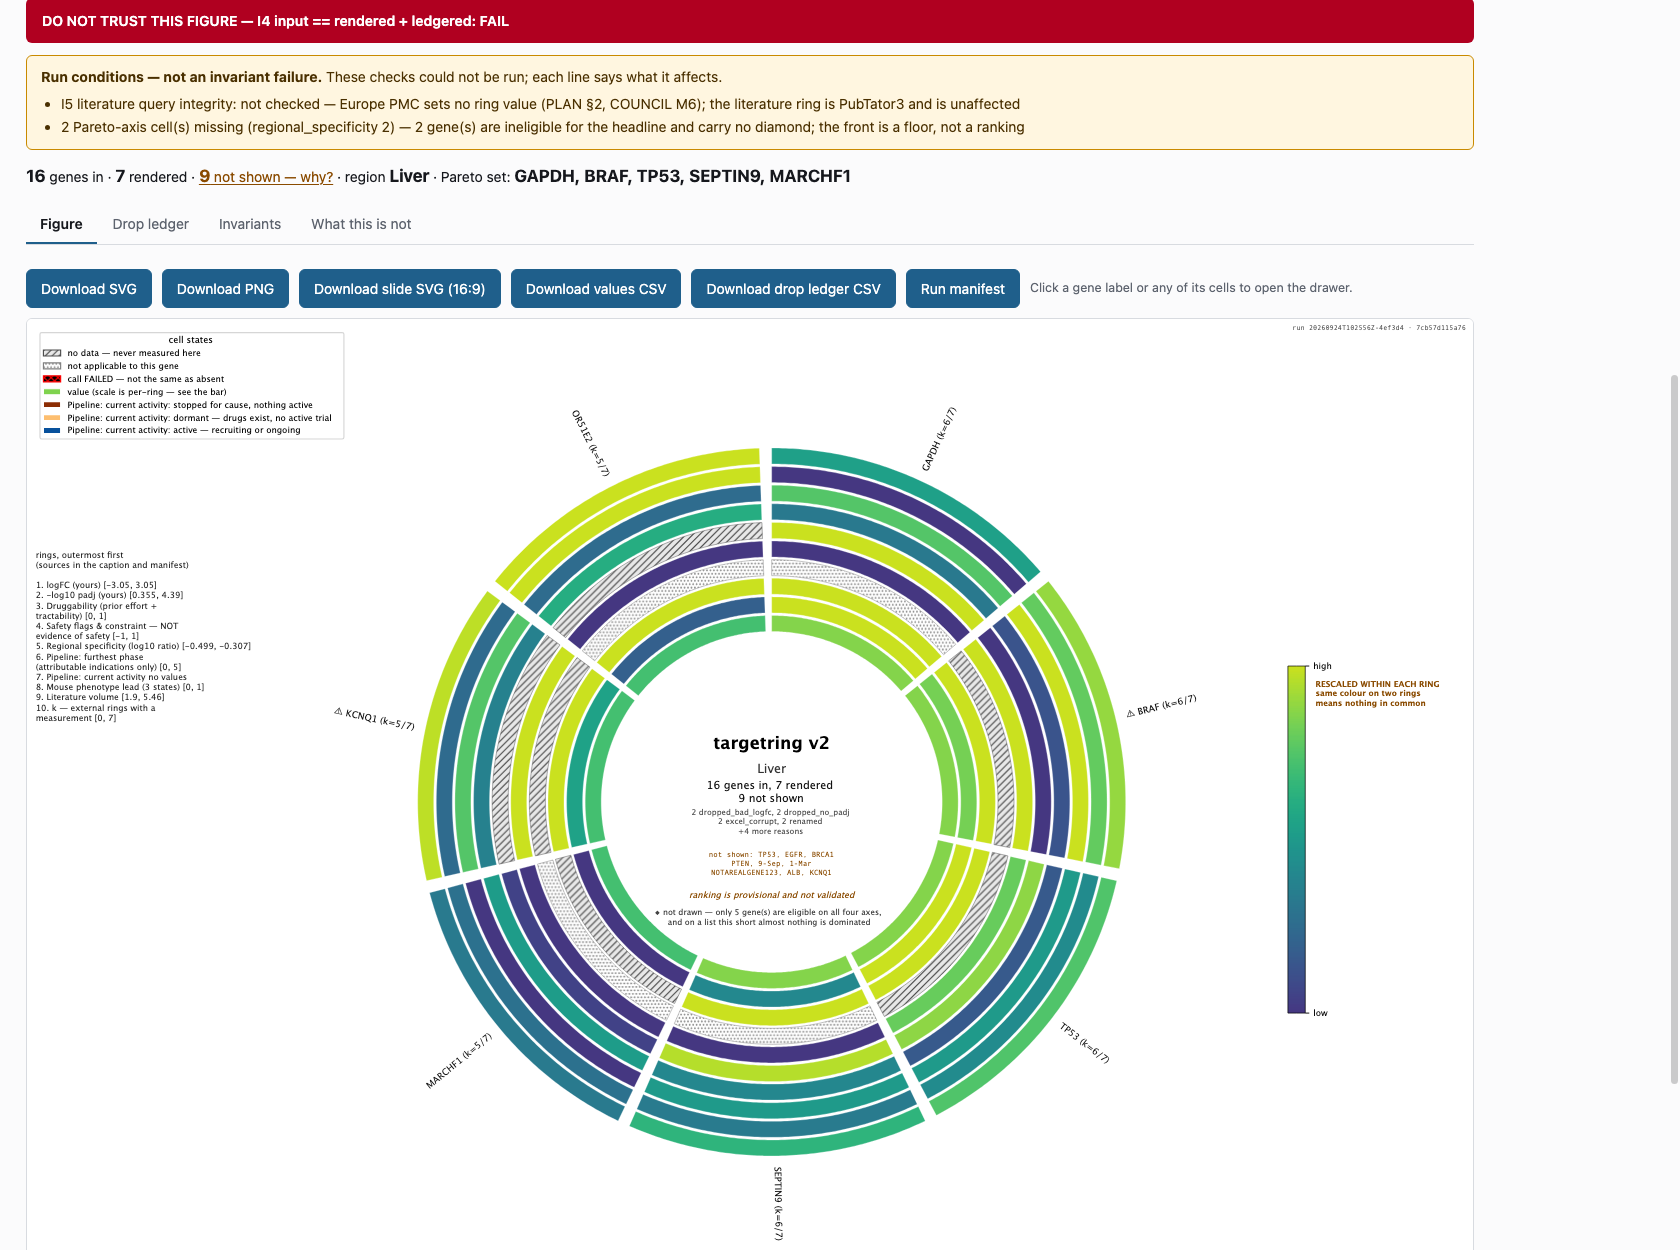
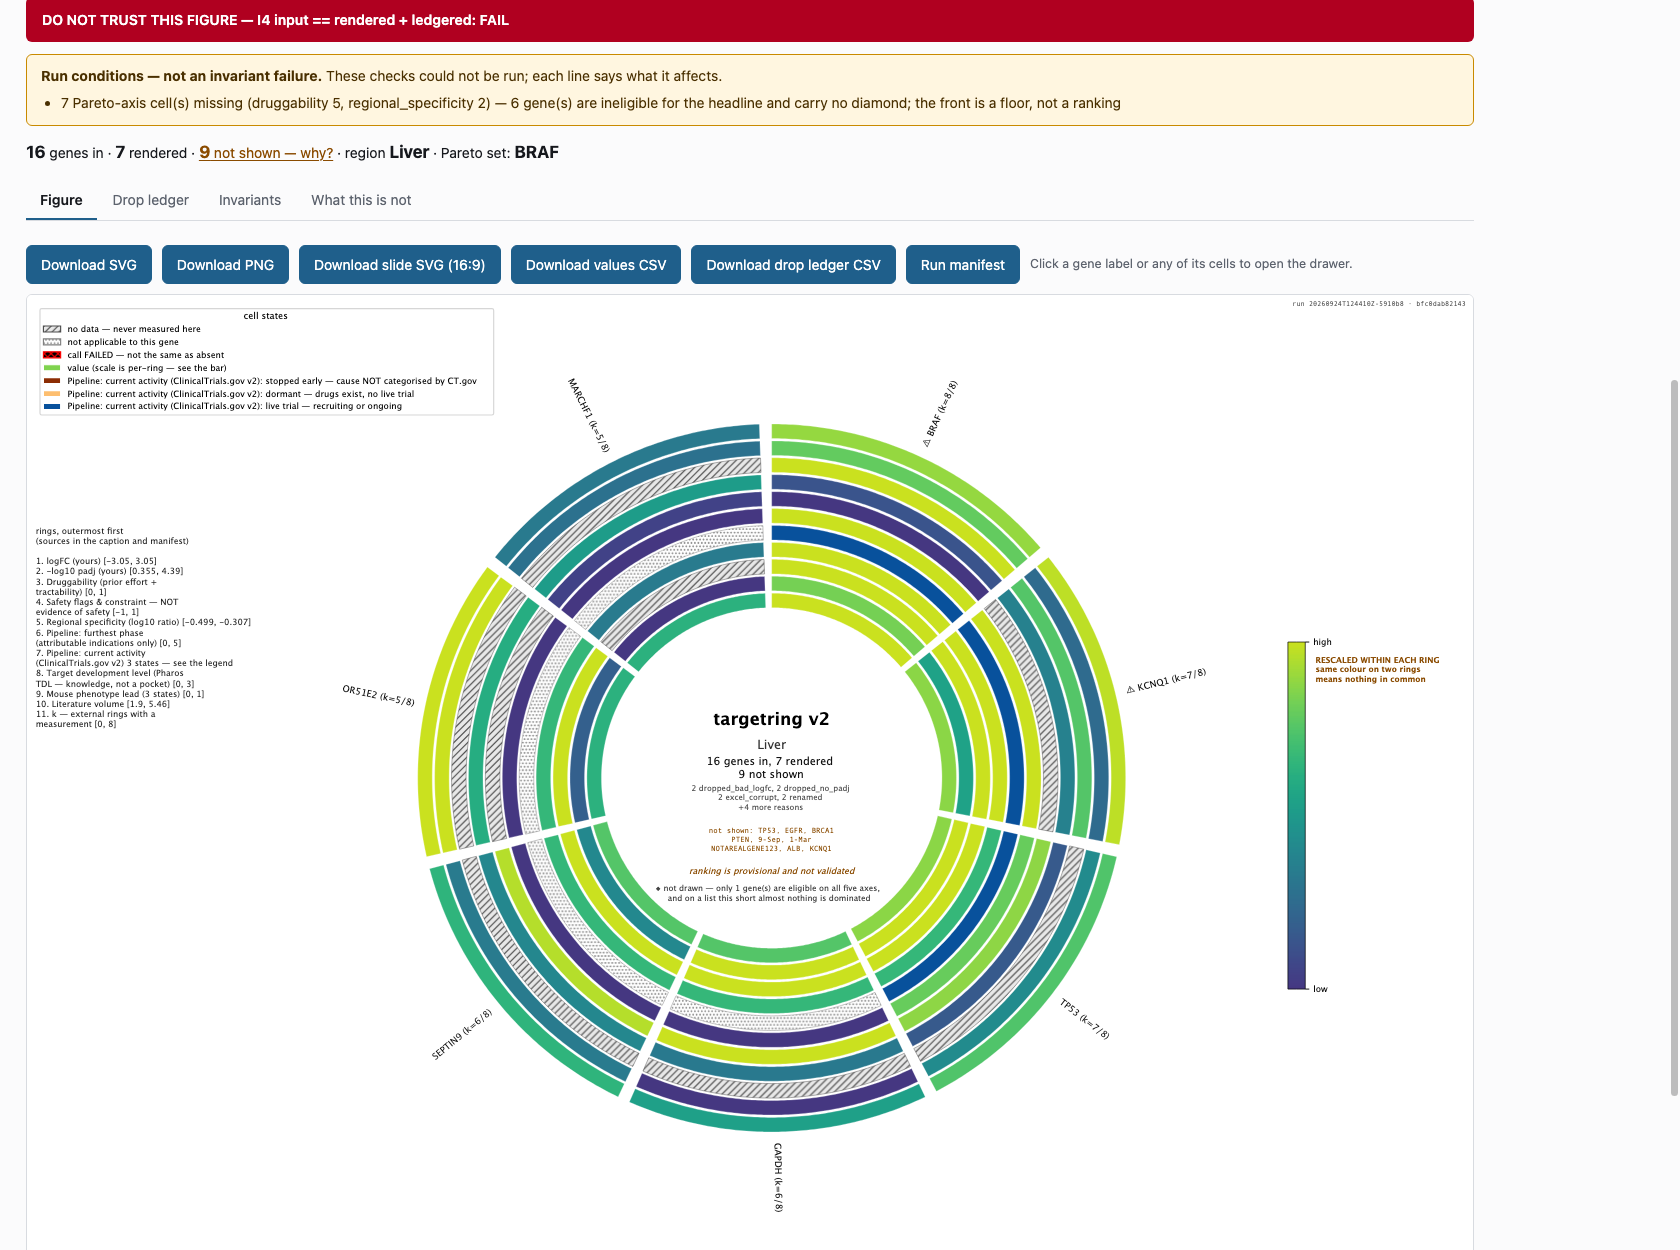
Drawer UI for the CT.gov panel and TDL, and the key stops saying "no values"
The drawer now renders what item 2 fetched: per drug, the exact trial counts,
the live count, the stopped-early count, the named lead sponsors of the live
trials, and a linked live NCT example -- plus the free-text `whyStopped`
reasons, shown verbatim and labelled "not categorised". Puck's second hard
condition is a thing you can see, not a key in the JSON. The rank block gains
the Pharos TDL level, and "n of 4 axes" is driven by the axis count.

Two screenshots added: `7-drawer-ctgov-sponsors.png` and
`7b-ring-key-sources.png`. All 15 retaken on this code.

Caught on the retake: the ring key printed "Pipeline: current activity
(ClinicalTrials.gov v2) no values" beside a ring full of drawn cells, because
a categorical ring has no Normalize. It names its three states now. A figure
must not make a false claim about its own data, and that included this one.

354 passed, 0 skipped.

diff --git a/targetring/static/app.js b/targetring/static/app.js
@@ -263,6 +263,8 @@ function drawerHtml(d) {
   const drugs = d.drugs || [];
   const lit = d.literature || {};
   const ch = d.chembl || {};
+  // v2.2 item 3: ChEMBL and Europe PMC are fetched when this drawer opens, not
+  // on the render path. `null` means not fetched yet, never "nothing there".
 
   let h = `<h3>${esc(d.gene)}</h3>
     <p class="hint">${esc(d.ensembl_id || "")}${d.uniprot
@@ -281,12 +283,15 @@ function drawerHtml(d) {
     <dt>Pareto non-dominated</dt><dd>${d.pareto
       ? "<span class='pill ok'>yes — headline set</span>"
       : d.pareto_eligible === false
-        ? `<span class='pill warn'>not eligible — ${d.pareto_k} of 4 axes</span>`
+        ? `<span class='pill warn'>not eligible — ${d.pareto_k} of ${d.n_pareto_axes ?? "?"} axes</span>`
         : "<span class='pill grey'>no</span>"}</dd>
     <dt>median available rank</dt><dd>${d.median_rank == null ? "—"
       : d.median_rank.toFixed(3)}</dd>
     <dt>weighted score</dt><dd>${d.weighted_score == null ? "—"
       : d.weighted_score.toFixed(3)} <span class="hint">(convenience only)</span></dd>
+    <dt>Pharos TDL</dt><dd>${d.tdl && d.tdl.state === "value"
+      ? `<b>${esc((d.tdl.raw || {}).tdl || "")}</b> <span class="hint">development level, not a pocket</span>`
+      : `<span class='pill grey'>${esc((d.tdl || {}).state || "—")}</span>`}</dd>
     <dt>reweighting-stable</dt><dd>${d.unstable
       ? "<span class='pill warn'>no — top-10 place moves</span>"
       : "<span class='pill ok'>yes</span>"}</dd></dl>`;
@@ -326,6 +331,44 @@ function drawerHtml(d) {
           .map(([k, v]) => `${k} ${v}`).join(", ") || "—")}</td>
         <td>${r.url ? `<a href="${esc(r.url)}" target="_blank" rel="noopener">open</a>` : "—"}</td>
       </tr>`).join("") + `</tbody></table></div>`;
+  }
+
+  // --- v2.2 item 2: ClinicalTrials.gov, sponsor and live status ---
+  // "sponsor plus live status must reach the drawer, since that is what tells
+  // the user a target is crowded."
+  const tr = d.trials || {};
+  const trDrugs = (tr.drugs || []).filter((r) => (r.n_trials || 0) > 0 || r.error);
+  if (tr.source) {
+    h += `<h4>trials — ${esc(tr.source)}</h4>
+      <p class="summary-line">${tr.n_lead_sponsors || 0} distinct lead sponsor(s)
+        across this target's drugs${(tr.lead_sponsors || []).length
+          ? ": " + tr.lead_sponsors.slice(0, 6).map(esc).join(", ") : ""}.</p>
+      <div class="note">${esc(tr.note || "")}</div>`;
+    if (trDrugs.length) {
+      h += `<div class="scroll-x"><table><thead><tr><th>Drug</th><th>Trials</th>
+        <th>Live</th><th>Stopped early</th><th>Lead sponsors (live)</th>
+        <th>Live example</th></tr></thead><tbody>` +
+        trDrugs.map((r) => `<tr>
+          <td><b>${esc(r.drug)}</b><br><span class="hint"><code>${esc(r.query || "")}</code></span></td>
+          <td>${r.error ? "—" : r.n_trials}</td>
+          <td>${r.error ? "—" : r.n_live}</td>
+          <td>${r.error ? "—" : r.n_stopped}</td>
+          <td>${esc((r.sponsors || []).slice(0, 3).join("; ") || "—")}</td>
+          <td>${(r.live || []).length
+            ? `<a href="${esc(r.live[0].url || "#")}" target="_blank" rel="noopener">${
+                esc(r.live[0].nct_id)}</a> ${esc(r.live[0].status)}
+               <span class="hint">${esc((r.live[0].conditions || []).join(", "))}</span>`
+            : r.error ? `<span class="hint">${esc(r.error)}</span>` : "—"}</td>
+        </tr>`).join("") + `</tbody></table></div>`;
+      const stopped = trDrugs.flatMap((r) => (r.stopped || []).map((s) => ({...s, drug: r.drug})))
+        .filter((s) => s.why_stopped).slice(0, 6);
+      if (stopped.length) {
+        h += `<p class="summary-line">Stated reasons for stopping — free text from the
+          sponsor, <b>not categorised</b>, shown verbatim:</p><ul class="reason">` +
+          stopped.map((s) => `<li><code>${esc(s.nct_id)}</code> ${esc(s.drug)}:
+            “${esc(s.why_stopped)}”</li>`).join("") + `</ul>`;
+      }
+    }
   }
 
   // --- literature ---

diff --git a/targetring/figure.py b/targetring/figure.py
@@ -759,13 +759,29 @@ def _draw_legend(fig, rings, norms, cmap, lay) -> list:
     lines = []
     for i, spec in enumerate(rings, start=1):
         n = norms.get(spec.key)
-        rng = f"[{n.vmin:.3g}, {n.vmax:.3g}]" if n else "no values"
+        rng = _range_label(spec, n)
         lines.extend(_key_lines(f"{i}. ", spec.label, rng))
     return blocks + [fig.text(0.006, 0.80,
                               "rings, outermost first\n"
                               "(sources in the caption and manifest)\n\n"
                               + "\n".join(lines),
                               fontsize=7.4, va="top", ha="left", color="#222222")]
+
+
+def _range_label(spec: RingSpec, n) -> str:
+    """What the numbers beside a ring name mean.
+
+    A categorical ring has no `Normalize`, and printing "no values" for it is a
+    false statement about the figure's own data: the activity ring has three
+    stated states and they are named in the legend. Caught on the v2.2 retake,
+    where the CT.gov ring read "Pipeline: current activity
+    (ClinicalTrials.gov v2) no values" beside a ring full of drawn cells.
+    """
+    if n is not None:
+        return f"[{n.vmin:.3g}, {n.vmax:.3g}]"
+    if spec.categorical:
+        return f"{len(spec.categorical)} states — see the legend"
+    return "no values"
 
 
 def _short(label: str, limit: int = 34) -> str:
@@ -900,7 +916,7 @@ def caption(rings, norms, weights, region, provenance, gene_flags=None,
                  "between two rings):")
     for i, spec in enumerate(rings, start=1):
         n = norms.get(spec.key)
-        rng = f"[{n.vmin:.3g}, {n.vmax:.3g}]" if n else "no values"
+        rng = _range_label(spec, n)
         lines.append(f"  {i}. {spec.label} {rng} \u2014 {spec.source}")
     w = ", ".join(f"{k}={v:g}" for k, v in sorted(weights.items()))
     excluded = ", ".join(sorted(EXCLUDED_FROM_SCORE))

diff --git a/tests/test_scales.py b/tests/test_scales.py
@@ -339,3 +339,31 @@ class TestGreyscaleDisjointness:
         """Truncating must not have broken the thing that makes viridis readable."""
         ramp = [relative_luminance(value_cmap()(i / 255)) for i in range(256)]
         assert all(b >= a - 1e-6 for a, b in zip(ramp, ramp[1:]))
+
+
+class TestTheKeyDoesNotMisstateItsOwnRings:
+    """Caught on the v2.2 screenshot retake: the categorical activity ring has
+    no Normalize, so the key printed "Pipeline: current activity
+    (ClinicalTrials.gov v2) no values" beside a ring full of drawn cells. A
+    figure must not make a false claim about its own data."""
+
+    def test_a_categorical_ring_names_its_states_not_no_values(self) -> None:
+        from targetring.figure import _range_label
+        spec = next(r for r in RING_SPECS if r.key == "clinical_activity")
+        label = _range_label(spec, None)
+        assert "no values" not in label
+        assert str(len(spec.categorical)) in label
+
+    def test_a_continuous_ring_with_nothing_drawn_still_says_no_values(self) -> None:
+        from targetring.figure import _range_label
+        spec = next(r for r in RING_SPECS if r.key == "tdl")
+        assert _range_label(spec, None) == "no values"
+
+    def test_the_rendered_key_says_it(self, tmp_path: Path) -> None:
+        spec = {"logfc": {g: value(1.0 * i) for i, g in enumerate("ABC")},
+                "clinical_activity": {"A": value(-1.0), "B": value(0.0), "C": value(1.0)}}
+        render(genes=list("ABC"), cells_by_ring=spec, rankings=rank_genes(spec),
+               region="Liver", out_svg=tmp_path / "k2.svg", input_count=3,
+               rendered_count=3, ledger_counts={})
+        body = (tmp_path / "k2.svg").read_text()
+        assert "3 states" in body

diff --git a/scripts/screenshots.py b/scripts/screenshots.py
@@ -133,6 +133,28 @@ def main() -> int:
         shot(page, "5d-drawer-kcnh2-liability.png")
         page.click("#drawer-close")
 
+        # 3b. v2.2 item 2: the CT.gov panel — sponsor and live status, which is
+        #     what says whether a target is crowded.
+        print("5b/10 BRAF — ClinicalTrials.gov sponsors and live status")
+        page.evaluate("openDrawer('BRAF')")
+        page.wait_for_selector("#drawer:not([hidden])")
+        page.wait_for_timeout(1500)
+        page.evaluate(
+            "[...document.querySelectorAll('#drawer h4')]"
+            ".find(e => e.textContent.startsWith('trials'))"
+            "?.scrollIntoView({block:'start'})"
+        )
+        page.wait_for_timeout(600)
+        shot(page, "7-drawer-ctgov-sponsors.png")
+
+        # 3c. v2.2 items 1 and 4: the ring key naming the activity ring's source
+        #     and the new TDL ring, and the hatched druggability cells.
+        print("5c/10 the ring key — CT.gov named, TDL added")
+        page.click("#drawer-close")
+        top(page)
+        page.wait_for_timeout(400)
+        shot(page, "7b-ring-key-sources.png")
+
         # 4. The deliberately broken input: counts + drop ledger.
         print("6/8 broken input, drop ledger")
         run_table(page, "broken", "Liver")

diff --git a/targetring/run.py b/targetring/run.py
@@ -504,6 +504,8 @@ async def run_analysis(
             "pareto": rankings[g].pareto,
             "pareto_eligible": rankings[g].pareto_eligible,
             "pareto_k": rankings[g].pareto_k,
+            # v2.2 item 4: the drawer said "n of 4 axes" in a template literal.
+            "n_pareto_axes": len(PARETO_AXES),
             "unstable": rankings[g].unstable,
             "median_rank": rankings[g].median_rank,
             "weighted_score": rankings[g].weighted_score,
